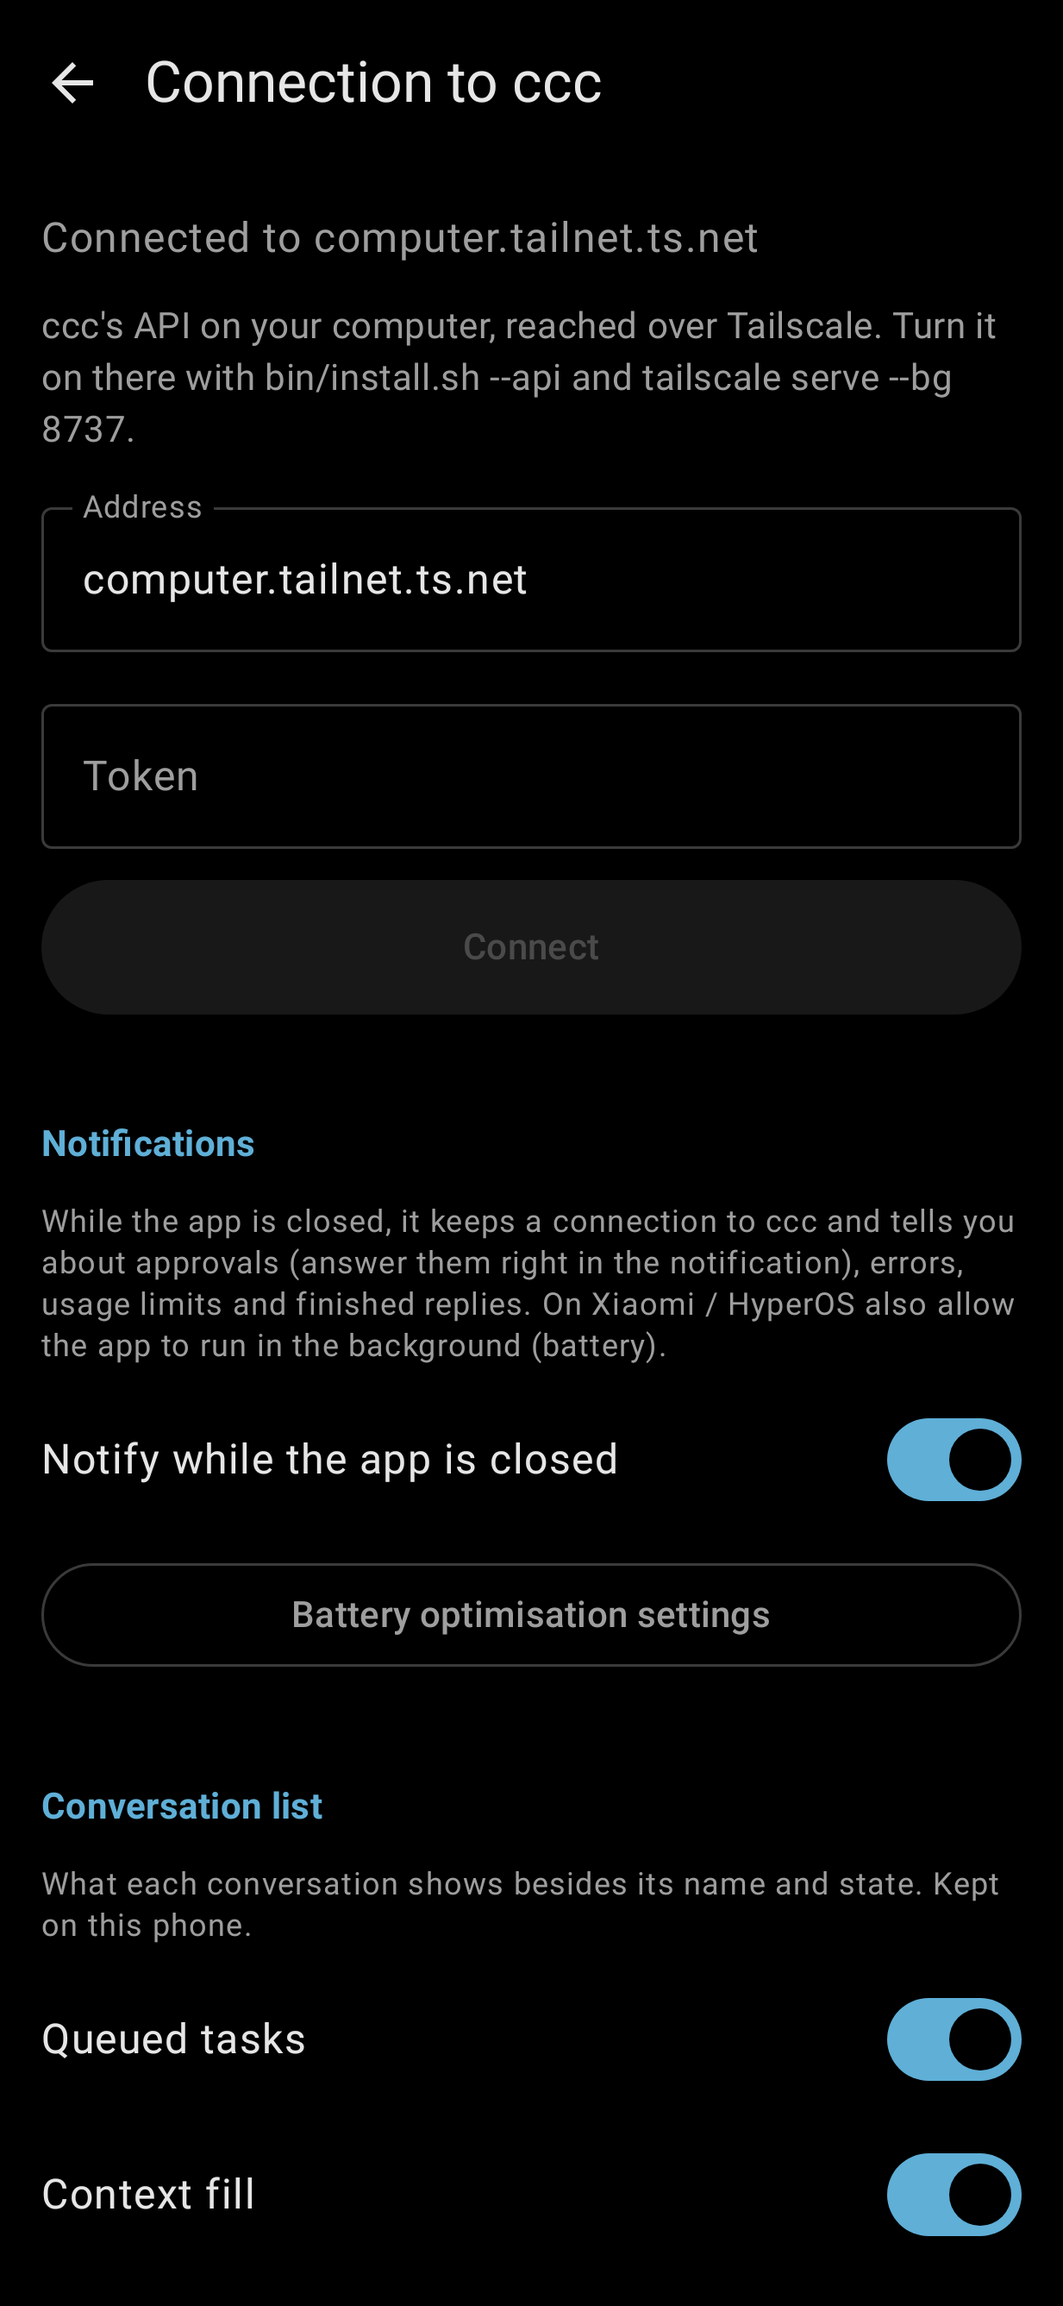
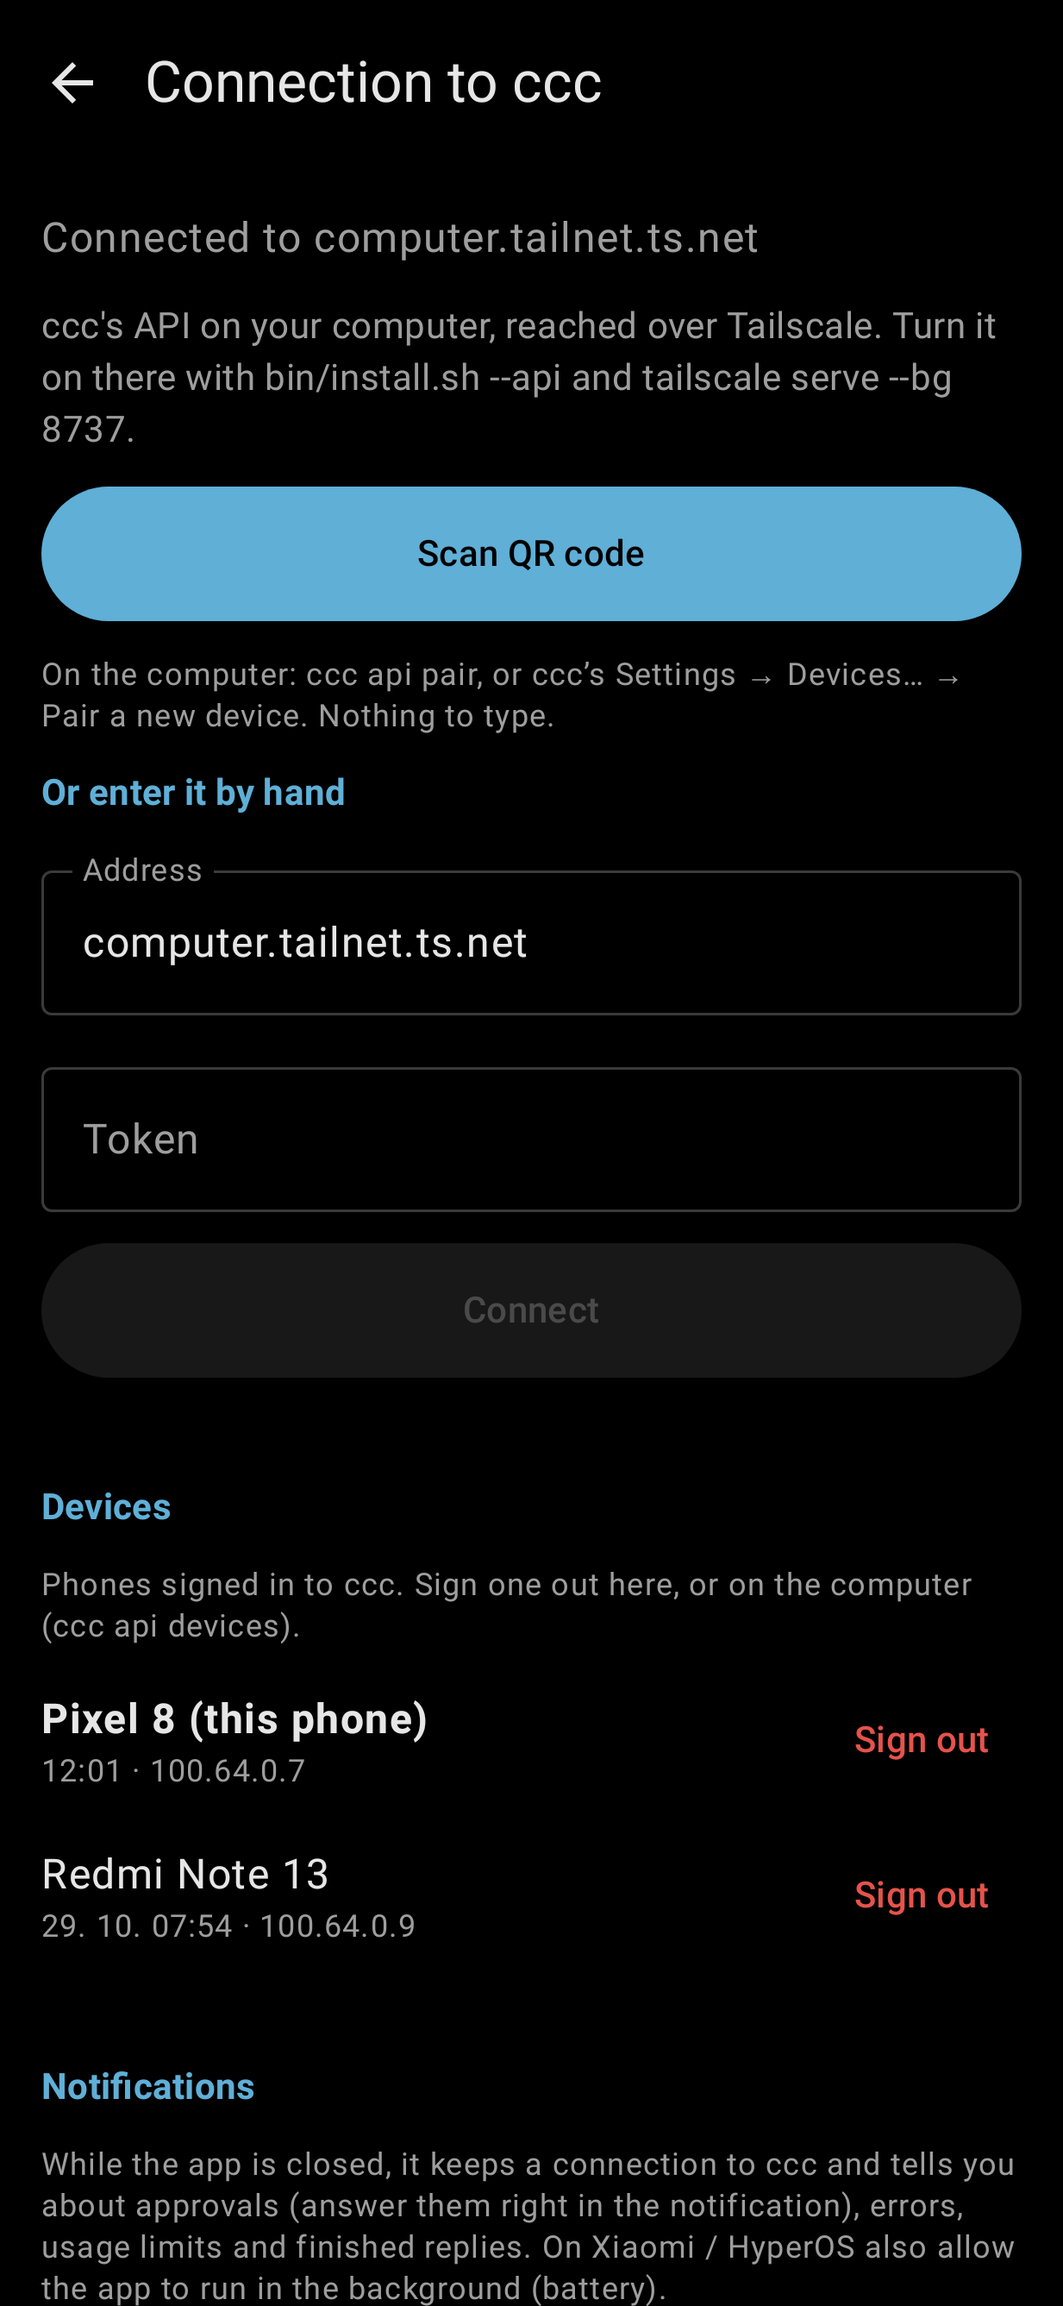
Android: sign in by scanning the QR code (ZXing), list and sign out devices (#128)
Claude-Session: https://claude.ai/code/session_01HoGxXtgeHNDDkThvTcTfKm

diff --git a/android/app/src/main/java/io/github/luquas95/ccc/ui/OtherScreens.kt b/android/app/src/main/java/io/github/luquas95/ccc/ui/OtherScreens.kt
@@ -46,6 +46,7 @@ import androidx.compose.material3.SnackbarHost
 import androidx.compose.material3.SnackbarHostState
 import androidx.compose.material3.Switch
 import androidx.compose.material3.Text
+import androidx.compose.material3.TextButton
 import androidx.compose.material3.TopAppBar
 import androidx.compose.material3.TopAppBarDefaults
 import androidx.compose.runtime.Composable
@@ -58,6 +59,9 @@ import androidx.compose.ui.Alignment
 import androidx.compose.ui.Modifier
 import androidx.compose.ui.graphics.Color
 import androidx.compose.ui.platform.LocalContext
+import com.journeyapps.barcodescanner.ScanContract
+import com.journeyapps.barcodescanner.ScanOptions
+import io.github.luquas95.ccc.data.Device
 import androidx.compose.ui.res.stringResource
 import androidx.core.content.ContextCompat
 import androidx.compose.ui.text.font.FontFamily
@@ -422,6 +426,25 @@ private fun SwitchRow(label: String, checked: Boolean, onChange: (Boolean) -> Un
     }
 }
 
+/** A phone signed in to ccc: its name, when and from where it was last seen, and a way to sign it out. */
+@Composable
+private fun DeviceRow(device: Device, onSignOut: (Device) -> Unit) {
+    Row(Modifier.fillMaxWidth(), verticalAlignment = Alignment.CenterVertically) {
+        Column(Modifier.weight(1f)) {
+            Text(
+                if (device.current) stringResource(R.string.device_this, device.name) else device.name,
+                fontWeight = if (device.current) FontWeight.Bold else FontWeight.Normal,
+            )
+            val seen = shortTime(device.lastSeenAt) ?: stringResource(R.string.device_never)
+            Text(listOf(seen, device.lastIp).filter { it.isNotBlank() }.joinToString(" · "),
+                style = MaterialTheme.typography.bodySmall, color = CccColors.Muted)
+        }
+        TextButton(onClick = { onSignOut(device) }) {
+            Text(stringResource(R.string.setup_sign_out), color = CccColors.Error)
+        }
+    }
+}
+
 @Composable
 fun SetupScreen(
     server: String,
@@ -434,15 +457,27 @@ fun SetupScreen(
     onConnect: (String, String, (Boolean) -> Unit) -> Unit,
     onNotifications: (Boolean) -> Unit,
     onSignOut: () -> Unit,
+    devices: List<Device>? = null,
+    onDevices: () -> Unit = {},
+    onSignOutDevice: (Device) -> Unit = {},
+    onScan: (String, (Boolean) -> Unit) -> Unit = { _, _ -> },
 ) {
     val context = LocalContext.current
+    var address by rememberSaveable { mutableStateOf(server) }
+    var token by rememberSaveable { mutableStateOf("") }
+    var busy by rememberSaveable { mutableStateOf(false) }
+    // The QR code of `ccc api pair`: the library's own screen asks for the camera and reads it.
+    val scan = rememberLauncherForActivityResult(ScanContract()) { result ->
+        result.contents?.let { text ->
+            busy = true
+            onScan(text) { busy = false }
+        }
+    }
+    LaunchedEffect(signedIn) { if (signedIn) onDevices() }
     // Android 13+ asks before an app may notify; on a yes, watching starts.
     val ask = rememberLauncherForActivityResult(ActivityResultContracts.RequestPermission()) { granted ->
         if (granted) onNotifications(true)
     }
-    var address by rememberSaveable { mutableStateOf(server) }
-    var token by rememberSaveable { mutableStateOf("") }
-    var busy by rememberSaveable { mutableStateOf(false) }
     Scaffold(
         topBar = { TopBar(stringResource(if (signedIn) R.string.connection else R.string.setup_title), onBack) },
         snackbarHost = { SnackbarHost(snackbar) },
@@ -462,6 +497,21 @@ fun SetupScreen(
                 Text(stringResource(R.string.setup_connected_to, server), color = CccColors.Muted)
             }
             Text(stringResource(R.string.setup_intro), style = MaterialTheme.typography.bodyMedium, color = CccColors.Muted)
+            Button(
+                onClick = {
+                    scan.launch(ScanOptions().apply {
+                        setDesiredBarcodeFormats(ScanOptions.QR_CODE)
+                        setPrompt(context.getString(R.string.scan_prompt))
+                        setBeepEnabled(false)
+                        setOrientationLocked(false)
+                    })
+                },
+                enabled = !busy,
+                modifier = Modifier.fillMaxWidth().height(52.dp),
+            ) { Text(stringResource(R.string.scan_qr)) }
+            Text(stringResource(R.string.scan_hint), style = MaterialTheme.typography.bodySmall, color = CccColors.Muted)
+            Text(stringResource(R.string.setup_manual), style = MaterialTheme.typography.titleSmall,
+                color = CccColors.Title, fontWeight = FontWeight.Bold)
             OutlinedTextField(
                 value = address,
                 onValueChange = { address = it },
@@ -492,6 +542,11 @@ fun SetupScreen(
                 if (busy) CircularProgressIndicator(Modifier.height(24.dp)) else Text(stringResource(R.string.setup_connect))
             }
             if (signedIn) {
+                Spacer(Modifier.height(16.dp))
+                Text(stringResource(R.string.devices), style = MaterialTheme.typography.titleSmall,
+                    color = CccColors.Title, fontWeight = FontWeight.Bold)
+                Text(stringResource(R.string.devices_hint), style = MaterialTheme.typography.bodySmall, color = CccColors.Muted)
+                devices?.forEach { device -> DeviceRow(device, onSignOutDevice) }
                 Spacer(Modifier.height(16.dp))
                 Text(stringResource(R.string.notifications), style = MaterialTheme.typography.titleSmall,
                     color = CccColors.Title, fontWeight = FontWeight.Bold)

diff --git a/android/app/src/main/java/io/github/luquas95/ccc/ui/AppViewModel.kt b/android/app/src/main/java/io/github/luquas95/ccc/ui/AppViewModel.kt
@@ -1,6 +1,7 @@
 package io.github.luquas95.ccc.ui
 
 import android.app.Application
+import android.os.Build
 import androidx.lifecycle.AndroidViewModel
 import androidx.lifecycle.viewModelScope
 import io.github.luquas95.ccc.R
@@ -8,11 +9,13 @@ import io.github.luquas95.ccc.data.ApiException
 import io.github.luquas95.ccc.data.CccApi
 import io.github.luquas95.ccc.data.Conversation
 import io.github.luquas95.ccc.data.ConversationDetail
+import io.github.luquas95.ccc.data.Device
 import io.github.luquas95.ccc.data.Export
 import io.github.luquas95.ccc.data.LaunchOptions
 import io.github.luquas95.ccc.data.LaunchPresets
 import io.github.luquas95.ccc.data.Message
 import io.github.luquas95.ccc.data.NewConversation
+import io.github.luquas95.ccc.data.Pairing
 import io.github.luquas95.ccc.data.Permission
 import io.github.luquas95.ccc.data.PromptPreset
 import io.github.luquas95.ccc.data.SearchHit
@@ -277,12 +280,57 @@ class AppViewModel(application: Application) : AndroidViewModel(application) {
         }
     }
 
+    /** A scanned QR code: a ccc pairing invite becomes a signed-in phone; anything else is refused. */
+    fun scanned(text: String, onDone: (Boolean) -> Unit) {
+        val invite = Pairing.parse(text)
+        if (invite == null) {
+            _message.value = text(R.string.error_qr)
+            onDone(false)
+            return
+        }
+        val unpaired = runCatching { CccApi(invite.server) }.getOrElse {
+            _message.value = text(R.string.error_server_address)
+            onDone(false)
+            return
+        }
+        viewModelScope.launch {
+            try {
+                val paired = unpaired.pair(invite.code, Build.MODEL.orEmpty().ifBlank { "Android" })
+                connect(invite.server, paired.token, onDone)
+            } catch (e: CancellationException) {
+                throw e
+            } catch (e: IOException) {
+                _message.value = if (e is ApiException && e.code == 401) text(R.string.error_pairing) else describe(e)
+                onDone(false)
+            }
+        }
+    }
+
+    private val _devices = MutableStateFlow<List<Device>?>(null)
+    /** The phones signed in to ccc (null until loaded), for the connection screen. */
+    val devices: StateFlow<List<Device>?> = _devices.asStateFlow()
+
+    fun loadDevices() {
+        val api = api ?: return
+        viewModelScope.launch { guard { _devices.value = api.devices() } }
+    }
+
+    /** Sign a phone out; this phone itself means signing out here too. */
+    fun signOutDevice(device: Device) {
+        val api = api ?: return
+        viewModelScope.launch {
+            if (!guard { api.removeDevice(device.id) }) return@launch
+            if (device.current) signOut() else loadDevices()
+        }
+    }
+
     fun signOut() {
         settings.clear()
         api = null
         events?.cancel()
         _home.value = HomeState()
         _conversation.value = null
+        _devices.value = null
         _screens.value = listOf(Screen.Setup)
         _notifications.value = false
         WatchService.sync(getApplication())

diff --git a/android/app/src/test/java/io/github/luquas95/ccc/data/CccApiTest.kt b/android/app/src/test/java/io/github/luquas95/ccc/data/CccApiTest.kt
@@ -106,6 +106,46 @@ class CccApiTest {
     }
 
     @Test
+    fun `pairing trades the code for a token without sending one`() = runBlocking {
+        answers["pair"] = 201 to """{"token": "t0k", "device_id": 4, "name": "Pixel", "version": "0.1.0"}"""
+
+        val paired = CccApi("http://127.0.0.1:${server.address.port}").pair("one-time", "Pixel")
+
+        assertEquals("t0k", paired.token)
+        assertEquals(4, paired.deviceId)
+        assertNull(seen.single().auth)
+        assertEquals("POST", seen.single().method)
+        assertTrue(seen.single().body.contains("\"code\":\"one-time\""))
+    }
+
+    @Test
+    fun `a wrong pairing code is an error with ccc's own text`() = runBlocking {
+        answers["pair"] = 401 to """{"error": "The pairing code is wrong, used or has run out."}"""
+        try {
+            CccApi("http://127.0.0.1:${server.address.port}").pair("nope", "Pixel")
+            fail("expected an error")
+        } catch (e: ApiException) {
+            assertEquals(401, e.code)
+        }
+    }
+
+    @Test
+    fun `lists the devices and signs one out`() = runBlocking {
+        answers["devices"] = 200 to """{"devices": [{"id": 1, "name": "Pixel", "last_seen_at": "2026-10-30T12:00:00",
+            "last_ip": "100.64.0.7", "current": true}, {"id": 2, "name": "Tablet", "created_at": "2026-10-29T08:00:00"}]}"""
+        answers["devices/2"] = 200 to """{"ok": true}"""
+
+        val devices = api().devices()
+        api().removeDevice(2)
+
+        assertEquals(listOf("Pixel", "Tablet"), devices.map { it.name })
+        assertTrue(devices[0].current)
+        assertEquals(false, devices[1].current)
+        assertNull(devices[1].lastSeenAt)
+        assertEquals("DELETE", seen.last().method)
+    }
+
+    @Test
     fun `messages ask for what is new`() = runBlocking {
         answers["conversations/7/messages"] = 200 to """{"total": 3, "messages": [
             {"index": 2, "kind": "assistant_text", "text": "Done", "time": "2026-10-21T10:00:00+00:00"}]}"""

diff --git a/android/app/src/main/java/io/github/luquas95/ccc/data/CccApi.kt b/android/app/src/main/java/io/github/luquas95/ccc/data/CccApi.kt
@@ -28,11 +28,11 @@ class ApiException(val code: Int, message: String) : IOException(message)
 /**
  * ccc's HTTP API (src/ccc/api.py) at [server] — e.g.
  * https://computer.tailnet.ts.net, with or without /api/v1 — signed in
- * with [token] (`ccc api token`).
+ * with [token] (`ccc api token`, or the one POST /pair gave this phone).
  */
 class CccApi(
     server: String,
-    private val token: String,
+    private val token: String = "",
     private val client: OkHttpClient = defaultClient,
 ) {
     private val base: HttpUrl = baseUrl(server) ?: throw IllegalArgumentException(server)
@@ -40,6 +40,20 @@ class CccApi(
     private val streamClient = client.newBuilder().readTimeout(0, TimeUnit.SECONDS).build()
 
     suspend fun status(): Status = get("status")
+
+    /** Trade the one-time [code] of a QR code for a token of this phone's own (the one call that needs no token). */
+    suspend fun pair(code: String, name: String): PairResult = call(
+        Request.Builder().url(base.newBuilder().addPathSegments("pair").build())
+            .post(body("code" to JsonPrimitive(code), "name" to JsonPrimitive(name)).toRequestBody(JSON)).build(),
+    )
+
+    /** The phones signed in, this one marked [Device.current]. */
+    suspend fun devices(): List<Device> = get<Devices>("devices").devices
+
+    /** Sign a phone out at once (this one too). */
+    suspend fun removeDevice(id: Int) {
+        call<Unit>(request("devices/$id").delete().build())
+    }
 
     /** Update ccc (git pull, install, restart); an error says why not (a task is running …). */
     suspend fun applyUpdate(): UpdateResult = post("update", "{}")

diff --git a/android/app/src/main/java/io/github/luquas95/ccc/data/Pairing.kt b/android/app/src/main/java/io/github/luquas95/ccc/data/Pairing.kt
@@ -1,0 +1,22 @@
+package io.github.luquas95.ccc.data
+
+import java.net.URLDecoder
+
+/** What the QR code of `ccc api pair` holds: where ccc is and a one-time code to trade for a token. */
+data class PairingInvite(val server: String, val code: String)
+
+object Pairing {
+    private const val PREFIX = "ccc://pair?"
+
+    /** The invite in [text] (src/ccc/pairing.py `payload`: ccc://pair?server=…&code=…), or null for any other QR. */
+    fun parse(text: String): PairingInvite? {
+        val query = text.trim().takeIf { it.startsWith(PREFIX) }?.removePrefix(PREFIX) ?: return null
+        val fields = query.split('&').mapNotNull { part ->
+            val (name, value) = part.split('=', limit = 2).takeIf { it.size == 2 } ?: return@mapNotNull null
+            name to runCatching { URLDecoder.decode(value, "UTF-8") }.getOrNull()
+        }.toMap()
+        val server = fields["server"]?.trim().orEmpty()
+        val code = fields["code"]?.trim().orEmpty()
+        return if (server.isEmpty() || code.isEmpty()) null else PairingInvite(server, code)
+    }
+}

diff --git a/android/app/src/main/java/io/github/luquas95/ccc/MainActivity.kt b/android/app/src/main/java/io/github/luquas95/ccc/MainActivity.kt
@@ -81,6 +81,7 @@ class MainActivity : ComponentActivity() {
 private fun App(model: AppViewModel) {
     val screens by model.screens.collectAsStateWithLifecycle()
     val home by model.home.collectAsStateWithLifecycle()
+    val devices by model.devices.collectAsStateWithLifecycle()
     val conversation by model.conversation.collectAsStateWithLifecycle()
     val newConversation by model.newConversation.collectAsStateWithLifecycle()
     val message by model.message.collectAsStateWithLifecycle()
@@ -133,6 +134,10 @@ private fun App(model: AppViewModel) {
             onConnect = model::connect,
             onNotifications = model::setNotifications,
             onSignOut = model::signOut,
+            devices = devices,
+            onDevices = model::loadDevices,
+            onSignOutDevice = model::signOutDevice,
+            onScan = model::scanned,
         )
         Screen.Conversations -> ConversationsScreen(
             state = home,

diff --git a/android/app/src/main/java/io/github/luquas95/ccc/data/MoreModels.kt b/android/app/src/main/java/io/github/luquas95/ccc/data/MoreModels.kt
@@ -5,6 +5,29 @@ import kotlinx.serialization.Serializable
 
 /** Reviews, goals, workflows, questions, routines, live sessions, analytics and settings (src/ccc/api_agents.py, api_views.py). */
 
+/** The answer of POST /pair: the token of this phone's own device. */
+@Serializable
+data class PairResult(
+    val token: String,
+    @SerialName("device_id") val deviceId: Int,
+    val name: String = "",
+    val version: String = "",
+)
+
+/** A phone signed in to ccc's API (GET /devices); [current] is the one asking. */
+@Serializable
+data class Device(
+    val id: Int,
+    val name: String,
+    @SerialName("created_at") val createdAt: String? = null,
+    @SerialName("last_seen_at") val lastSeenAt: String? = null,
+    @SerialName("last_ip") val lastIp: String = "",
+    val current: Boolean = false,
+)
+
+@Serializable
+data class Devices(val devices: List<Device> = emptyList())
+
 @Serializable
 data class Review(
     val id: Int,

diff --git a/android/app/src/test/java/io/github/luquas95/ccc/data/PairingTest.kt b/android/app/src/test/java/io/github/luquas95/ccc/data/PairingTest.kt
@@ -1,0 +1,22 @@
+package io.github.luquas95.ccc.data
+
+import org.junit.Assert.assertEquals
+import org.junit.Assert.assertNull
+import org.junit.Test
+
+/** The QR payload of src/ccc/pairing.py `payload`. */
+class PairingTest {
+    @Test
+    fun `reads the address and the code of a ccc QR code`() {
+        val invite = Pairing.parse("ccc://pair?server=https%3A%2F%2Fxia.tail0ffcfb.ts.net%3A8737&code=AbC_-0123")
+        assertEquals(PairingInvite("https://xia.tail0ffcfb.ts.net:8737", "AbC_-0123"), invite)
+    }
+
+    @Test
+    fun `refuses any other QR code`() {
+        assertNull(Pairing.parse("https://example.com/?server=x&code=y"))
+        assertNull(Pairing.parse("ccc://pair?server=https%3A%2F%2Fx.ts.net"))
+        assertNull(Pairing.parse("ccc://pair?server=&code=abc"))
+        assertNull(Pairing.parse(""))
+    }
+}

diff --git a/android/app/src/test/java/io/github/luquas95/ccc/ui/ScreenshotsTest.kt b/android/app/src/test/java/io/github/luquas95/ccc/ui/ScreenshotsTest.kt
@@ -189,7 +189,11 @@ open class ScreenshotsTest {
 
     @Test
     fun connection() = shot("connection", "computer.tailnet") {
-        SetupScreen("computer.tailnet.ts.net", true, true, ListDetail.DEFAULT, { _, _ -> }, SnackbarHostState(), {}, { _, _, _ -> }, {}, {})
+        SetupScreen("computer.tailnet.ts.net", true, true, ListDetail.DEFAULT, { _, _ -> }, SnackbarHostState(), {}, { _, _, _ -> }, {}, {},
+            devices = listOf(
+                io.github.luquas95.ccc.data.Device(1, "Pixel 8", lastSeenAt = "2026-10-30T12:01:00", lastIp = "100.64.0.7", current = true),
+                io.github.luquas95.ccc.data.Device(2, "Redmi Note 13", lastSeenAt = "2026-10-29T07:54:00", lastIp = "100.64.0.9"),
+            ))
     }
 
     @Test

diff --git a/android/README.md b/android/README.md
@@ -105,9 +105,15 @@ echo "sdk.dir=$HOME/Android/Sdk" > local.properties   # once
 adb install -r app/build/outputs/apk/debug/app-debug.apk
 ```
 
-Or copy `app-debug.apk` to the phone and open it there. Then enter the
-address (`tailscale serve status` on the computer prints it, e.g.
-`computer.tailnet.ts.net`) and the token (`ccc api token`).
+Or copy `app-debug.apk` to the phone and open it there. Then sign in
+with a **QR code**: on the computer run `ccc api pair` (or ccc's
+*Settings → Devices… → Pair a new device*) and tap *Scan QR code* in the
+app. The code is good for 5 minutes and one phone; the phone gets a token
+of its own, which *Connection → Devices* lists and can sign out. The
+scanner is ZXing, so nothing needs Google Play services.
+
+Or enter the address (`tailscale serve status` on the computer prints it,
+e.g. `computer.tailnet.ts.net`) and the token (`ccc api token`) by hand.
 
 The debug build also allows plain `http://` (e.g. ccc's API on the
 computer's Tailscale IP and port 8737, without `tailscale serve`) —
